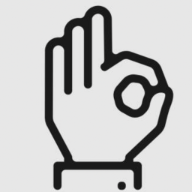
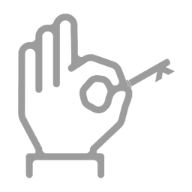
Update

diff --git a/client/src/components/Navbar.js b/client/src/components/Navbar.js
@@ -2,6 +2,7 @@ import React, { useState, useEffect } from 'react';
 import { Link } from 'react-router-dom';
 import './Navbar.css';
 import { HashLink } from 'react-router-hash-link';
+import logo from './images/navbar_logo.png'
 // import { FaTimes, FaBars } from 'react-icons/fa';
 // import { Button } from './Button';
 
@@ -33,7 +34,7 @@ function Navbar() {
         <nav className='navbar'>
             <div className='navbar-container'>
                 <Link className="navbar-logo" onClick={closeMobileMenu}>
-                    bok
+                    <img src={logo} className="logo-pic" />
                 </Link>
                 <div className='menu-icon' onClick={handleClick}>
                     <i className={click? 'fas fa-times' : 'fas fa-bars'} />

diff --git a/client/src/components/Navbar.css b/client/src/components/Navbar.css
@@ -30,12 +30,16 @@
     color: #cfccc8;
     justify-self: start;
     margin-left: 40px;
-    margin-top: 10px;
     text-decoration: none;
     font-size: 2rem;
     display: flex;
     align-items: center;
     font-weight: bold;
+    vertical-align: middle;
+  }
+
+  .logo-pic {
+    width: 95px;
   }
 
   /* .logo-font {
